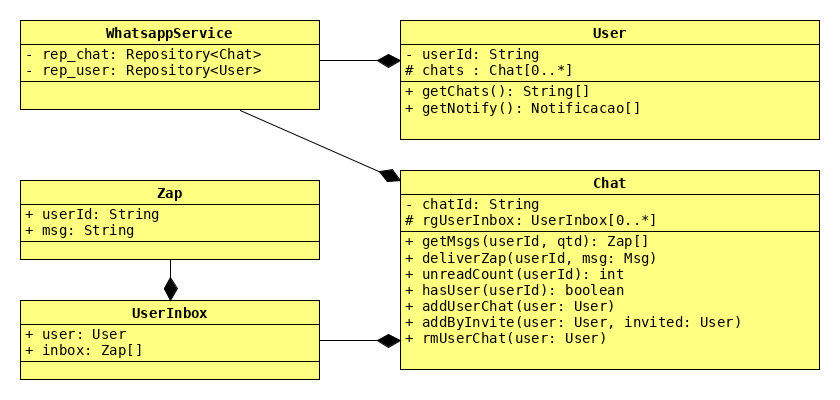
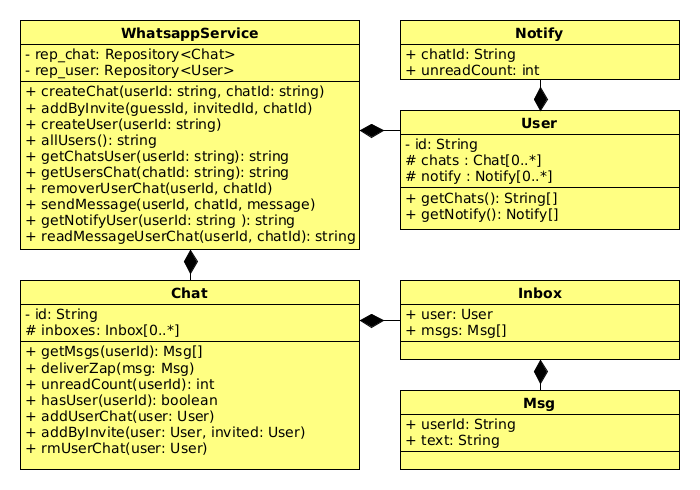
zap

diff --git a/base/026/Readme.md b/base/026/Readme.md
@@ -1,12 +1,14 @@
 # Whatsapp I - Chat Grupo
 
 <!--TOC_BEGIN-->
-- [Funcionalidades](#funcionalidades)
+- [Whatsapp I - Chat Grupo](#whatsapp-i---chat-grupo)
+  - [Funcionalidades](#funcionalidades)
     - [Seu sistema deverá:](#seu-sistema-deverá)
-- [Shell](#shell)
-- [Guia de Resolução](#guia-de-resolução)
-- [Main não interativa](#main-não-interativa)
-- [Créditos](#créditos)
+  - [- Ao pedir a lista de notificações, o usuário vê ao lado de cada grupo se ele possui mensagens não lidas.](#--ao-pedir-a-lista-de-notificações-o-usuário-vê-ao-lado-de-cada-grupo-se-ele-possui-mensagens-não-lidas)
+  - [Shell](#shell)
+  - [Guia de Resolução](#guia-de-resolução)
+  - [Main não interativa](#main-não-interativa)
+  - [Créditos](#créditos)
 
 <!--TOC_END-->
 
@@ -107,7 +109,7 @@ $chats sara
 
 ```sh
 #__case mensagens
-$zap goku guerreiros sou goku galera
+$zap goku guerreiros oi, eu sou o goku
 $zap tina guerreiros oi goku
 
 $notify goku
@@ -118,7 +120,7 @@ $notify tina
 $ler goku guerreiros
 [tina: oi goku]
 $ler tina guerreiros
-[goku: sou goku galera]
+[goku: oi, eu sou o goku]
 
 $ler sara guerreiros
 fail: user sara nao esta no chat guerreiros
@@ -154,6 +156,81 @@ $end
 
 ## Main não interativa
 ```java
+//case init
+WhatsappService whatsapp = new WhatsappService();
+whatsapp.createUser("goku");
+whatsapp.createUser("sara");
+whatsapp.createUser("tina");
+System.out.println(whatsapp.allUsers());
+//[goku sara tina]
+whatsapp.createChat("goku", "guerreiros");
+whatsapp.createChat("goku", "homens");
+whatsapp.createChat("sara", "familia"));
+
+whatsapp.createChat("sara", "guerreiros");
+//fail: chat guerreiros ja existe
+
+System.out.println(whatsapp.getChatsUser("goku"));
+//[guerreiros homens]
+System.out.println(whatsapp.getChatsUser("sara"));
+//[familia]
+System.out.println(whatsapp.getChatsUser("tina"));
+//[]
+
+//case invite
+whatsapp.addByInvite("goku", "sara", "guerreiros");
+whatsapp.addByInvite("sara", "tina", "guerreiros");
+whatsapp.addByInvite("tina", "goku", "familia");
+//fail: user tina nao esta em chat familia
+System.out.println(whatsapp.getChatsUser("sara"));
+//[familia guerreiros]
+System.out.println(whatsapp.getChatsUser("tina"));
+//[guerreiros]
+System.out.println(whatsapp.getChatsUser("goku"));
+//[guerreiros homens]
+System.out.println(whatsapp.getUsersChat("guerreiros"));
+//[goku sara tina]
+System.out.println(whatsapp.getUsersChat("familia"));
+//[sara tina]
+
+//case leaving
+whatsapp.removerUserChat("sara", "guerreiros");
+System.out.println(whatsapp.getUsersChat("guerreiros"));
+//[goku tina]
+System.out.println(whatsapp.getChatsUser("sara"));
+//[familia]
+
+//case mensagens
+whatsapp.sendMessage("goku", "guerreiros", "oi, eu sou o goku");
+whatsapp.sendMessage("tina", "guerreiros", "oi goku");
+
+whatsapp.getNotify("goku");
+//[guerreiros(1) homens]
+whatsapp.getNotify("tina");
+//[guerreiros(1)]
+
+whatsapp.readMessageUserChat("goku", "guerreiros");
+//[tina: oi goku]
+whatsapp.readMessageUserChat("tina", "guerreiros");
+//[goku: oi, eu sou o goku]
+
+whatsapp.readMessageUserChat("sara", "guerreiros");
+//fail: user sara nao esta no chat guerreiros
+
+whatsapp.sendMessage("goku", "guerreiros", "vamos sair tina?");
+whatsapp.sendMessage("tina", "guerreiros", "voce ta com fome goku?");
+whatsapp.sendMessage("goku", "guerreiros", "to com saudade de voce.");
+
+whatsapp.getNotify("tina");
+//[guerreiros(2)]
+whatsapp.getNotify("goku");
+//[guerreiros(1) homens]
+
+whatsapp.readMessageUserChat("goku", "guerreiros");
+//[tina: voce ta com fome goku?]
+whatsapp.readMessageUserChat("tina", "guerreiros");
+//[goku: vamos sair tina?]
+//[goku: to com saudade de voce.]
 ```
 ---
 ## Créditos
